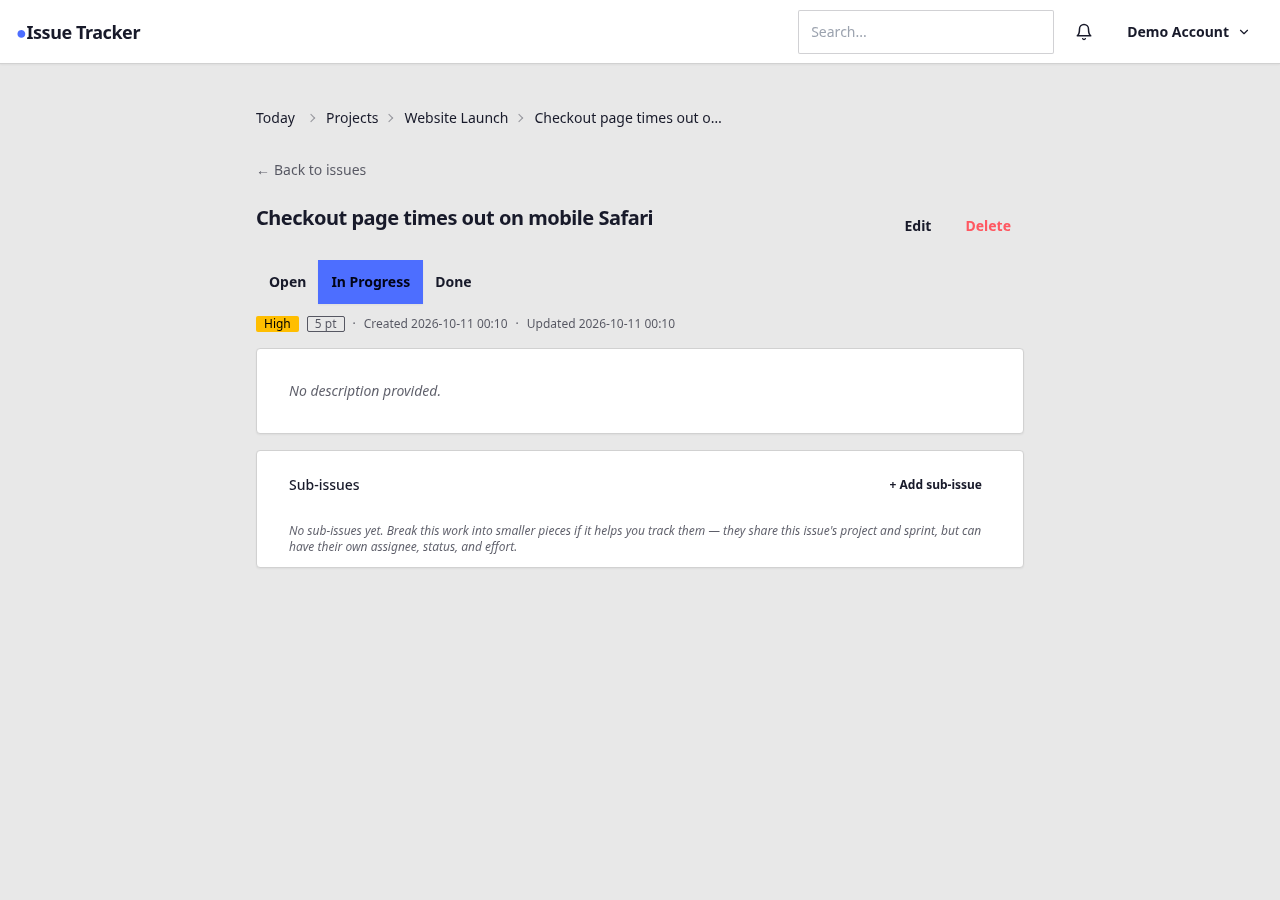
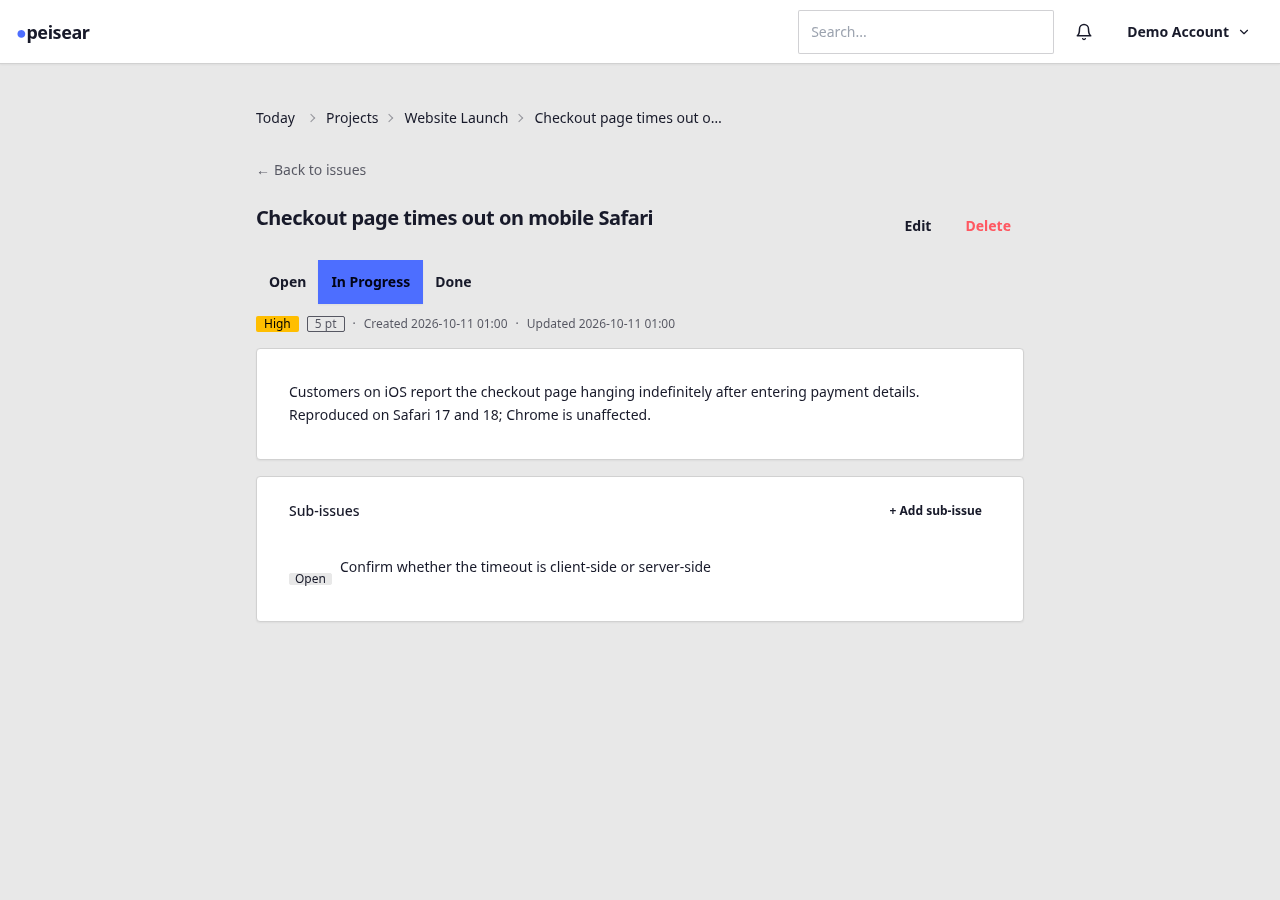
DOCS-008: images a stranger can read
RFC 0016 §0: the interface brand string is peisear, not "Issue
Tracker" -- the navbar and all seven page-title suffixes in
crates/peisear-i18n/src/en.rs. Searched tracked files for the old
string outside that file and in crates/*/tests: none found; the i18n
guard already used a [fx-brand] placeholder, unaffected.

RFC 0016 §0.1/§9: the four one-line descriptions published by the
0.49.0 release itself (peisear's and peisear-web's Cargo.toml
descriptions, peisear's lib.rs doc comment, docs/book.toml) no longer
call the product an issue tracker, wording taken from the RFC's own
hero draft and marked provisional -- the README repositioning stays
0.50.0's.

Three more fixture strings found by reading the regenerated images,
not by trusting the three the review named: the project description
and two issue titles, hardcoded outside createFixtures' parameter
list. Parameterised alongside the existing eight, with an adversarial
value in the gate's own set and a plain one in doc-screenshots.mjs's;
the gate re-verified at 120 cells throughout.

The issue in the issue-detail capture now has a description and one
sub-issue, so the image no longer contradicts first-run.md's own
"a description, and a place for sub-issues" -- both the description
and the sub-issue are parameterised the same way, empty/adversarial
for the gate, filled in for the screenshot.

Two DOCS-007 review findings fixed: the exclusion-proof test
(the_scan_does_not_count_its_own_file) now asserts the module's own
[…]

Changed region(s): [[0.2188, 0.4044, 0.7812, 0.6533], [0.0312, 0.0311, 0.125, 0.0622]]

diff --git a/crates/peisear-web/src/docs_scan.rs b/crates/peisear-web/src/docs_scan.rs
@@ -214,6 +214,31 @@ fn literal_bool_default(config_rs: &str, var: &str) -> Option<bool> {
     }
 }
 
+// ---------- rule 6: README.md's absolute image URLs ----------
+
+const RAW_URL_PREFIX: &str = "https://github.com/nabbisen/peisear/raw/main/";
+
+/// Every path named by a `.../raw/main/<path>` URL in `text`, in the
+/// order they appear. Mechanical text splitting, same shape as rule 3's
+/// manifest parse -- no network call, ever (`DOCS-008` §7's own
+/// condition: "if rule 6 cannot be written without a network call, then
+/// it is not rule 6 and should not be built"; it doesn't need one, since
+/// the question is only "does this path exist in the tree", not "does
+/// the URL resolve").
+fn raw_url_paths(text: &str) -> Vec<String> {
+    let mut out = Vec::new();
+    let mut rest = text;
+    while let Some(idx) = rest.find(RAW_URL_PREFIX) {
+        let after = &rest[idx + RAW_URL_PREFIX.len()..];
+        let end = after
+            .find(|c: char| c == ')' || c == '"' || c == '\'' || c.is_whitespace())
+            .unwrap_or(after.len());
+        out.push(after[..end].to_string());
+        rest = &after[end..];
+    }
+    out
+}
+
 /// The *Default* cell of `configuration.md`'s reference table row for `var`.
 fn table_default(configuration: &str, var: &str) -> Option<String> {
     let marker = format!("`{var}`");
@@ -238,6 +263,8 @@ pub(crate) struct Input<'a> {
     pub deployment: &'a str,
     pub configuration: &'a str,
     pub config_rs: &'a str,
+    /// Does this repo-root-relative path exist? (rule 6 only.)
+    pub exists: &'a dyn Fn(&str) -> bool,
 }
 
 /// Every rule breach, each a sentence saying which rule and where. Messages
@@ -334,6 +361,15 @@ pub(crate) fn violations(input: &Input) -> Vec<String> {
         }
     }
 
+    // Rule 6, live: every README.md raw-URL image names a file that exists.
+    for path in raw_url_paths(input.readme) {
+        if !(input.exists)(&path) {
+            out.push(format!(
+                "rule 6: README.md's raw URL names {path}, which does not exist"
+            ));
+        }
+    }
+
     out
 }
 
@@ -373,6 +409,8 @@ fn real() -> Real {
 }
 
 fn run(r: &Real) -> Vec<String> {
+    let root = repo_root();
+    let exists = move |p: &str| root.join(p).exists();
     violations(&Input {
         crate_dirs: r.crate_dirs.clone(),
         readme: &r.readme,
@@ -384,6 +422,7 @@ fn run(r: &Real) -> Vec<String> {
         deployment: &r.deployment,
         configuration: &r.configuration,
         config_rs: &r.config_rs,
+        exists: &exists,
     })
 }
 
@@ -490,6 +529,20 @@ fn rule_4_catches_a_documented_boolean_default_that_does_not_match_config_rs() {
 }
 
 #[test]
+fn rule_6_catches_a_raw_url_naming_a_file_that_does_not_exist() {
+    let mut r = real();
+    r.readme = format!(
+        "{}\n![missing](https://github.com/nabbisen/peisear/raw/main/docs/src/assets/screenshots/does-not-exist.png)\n",
+        r.readme
+    );
+    let v = only(run(&r), "rule 6:");
+    assert!(
+        v.iter().any(|m| m.contains("does-not-exist.png")),
+        "got {v:?}"
+    );
+}
+
+#[test]
 fn the_helpers_do_what_the_rules_assume() {
     assert_eq!(short_crate_name("peisear-i18n"), "i18n");
     assert_eq!(short_crate_name("peisear"), "peisear");
@@ -528,6 +581,12 @@ fn the_helpers_do_what_the_rules_assume() {
         ),
         vec!["app.css".to_string(), "board.js".to_string()]
     );
+    assert_eq!(
+        raw_url_paths(
+            "![a](https://github.com/nabbisen/peisear/raw/main/docs/a.png) and [b](https://github.com/nabbisen/peisear/raw/main/docs/b.png \"title\")"
+        ),
+        vec!["docs/a.png".to_string(), "docs/b.png".to_string()]
+    );
 }
 
 // ---------- rule 5: committed citations of a gitignored path ----------
@@ -551,7 +610,13 @@ fn the_helpers_do_what_the_rules_assume() {
 /// banning its own existence.
 const SELF_PATH: &str = "crates/peisear-web/src/docs_scan.rs";
 
-fn tracked_files() -> Vec<(String, String)> {
+/// Every path `git` considers tracked, unfiltered -- the raw list
+/// [`tracked_files`] filters `SELF_PATH` out of. Kept separate so a test
+/// can assert against the *un*filtered list too (`DOCS-008` §3): a test
+/// that only checks `SELF_PATH` is absent from the filtered output
+/// passes vacuously if `SELF_PATH` is stale (the file renamed or moved),
+/// since an absent path is trivially "not found" either way.
+fn git_tracked_paths() -> Vec<String> {
     let root = repo_root();
     let output = std::process::Command::new("git")
         .arg("-C")
@@ -560,13 +625,22 @@ fn tracked_files() -> Vec<(String, String)> {
         .arg("-z")
         .output()
         .expect("git ls-files");
+    String::from_utf8_lossy(&output.stdout)
+        .split('\0')
+        .filter(|s| !s.is_empty())
+        .map(|s| s.to_string())
+        .collect()
+}
+
+fn tracked_files() -> Vec<(String, String)> {
+    let root = repo_root();
     let mut out = Vec::new();
-    for rel in String::from_utf8_lossy(&output.stdout).split('\0') {
-        if rel.is_empty() || rel == SELF_PATH {
+    for rel in git_tracked_paths() {
+        if rel == SELF_PATH {
             continue;
         }
-        if let Ok(text) = fs::read_to_string(root.join(rel)) {
-            out.push((rel.to_string(), text));
+        if let Ok(text) = fs::read_to_string(root.join(&rel)) {
+            out.push((rel, text));
         }
     }
     out
@@ -608,11 +682,26 @@ fn a_planted_git_exclude_citation_is_counted() {
 /// `DOCS-005` review, finding F-1: `tracked_files()` used to count this
 /// module's own file, which cites `.git-exclude` nine times in its doc
 /// comments and test expectations -- so the rule below could never reach
-/// zero, even after `DOCS-006` closes the real gap. Proven directly
-/// (not just asserted by the exclusion's own existence): this module's
-/// own path is absent from what `tracked_files()` returns.
+/// zero, even after `DOCS-006` closes the real gap.
+///
+/// `DOCS-008` review, finding F-3: the first version of this test only
+/// asserted `SELF_PATH` was *absent* from `tracked_files()`'s filtered
+/// output -- which also holds, vacuously, if `SELF_PATH` is stale (the
+/// file renamed or moved), since the filtered list would never contain
+/// the old path either way. The one failure mode this test exists to
+/// catch is the one that shape can't see. Fixed to a positive assertion
+/// first: `SELF_PATH` must be present in git's own *unfiltered* tracked
+/// list, which fails loudly, naming the path, the moment a rename makes
+/// `SELF_PATH` stale -- then the filtered list must exclude it.
 #[test]
 fn the_scan_does_not_count_its_own_file() {
+    let tracked = git_tracked_paths();
+    assert!(
+        tracked.iter().any(|p| p == SELF_PATH),
+        "{SELF_PATH} is not a tracked file -- if docs_scan.rs was renamed \
+         or moved, update SELF_PATH to match, or this test cannot prove \
+         the exclusion it exists to prove"
+    );
     let files = tracked_files();
     assert!(
         !files.iter().any(|(path, _)| path == SELF_PATH),

diff --git a/crates/peisear-i18n/src/en.rs b/crates/peisear-i18n/src/en.rs
@@ -202,7 +202,7 @@ pub(crate) fn render(key: MessageKey) -> String {
         ),
 
         // ---- I18N-005a: components/{layout,breadcrumb,error_page} ----
-        MessageKey::AppBrandName => "Issue Tracker".to_string(),
+        MessageKey::AppBrandName => "peisear".to_string(),
         MessageKey::NavBellLabelNone => "Notifications".to_string(),
         MessageKey::NavBellLabelUnread { count } => format!("Notifications ({count} unread)"),
         MessageKey::NavBellCount { count } => bell_count(count),
@@ -218,7 +218,7 @@ pub(crate) fn render(key: MessageKey) -> String {
         MessageKey::NavSignOut => "Sign out".to_string(),
         MessageKey::BreadcrumbNavLabel => "Breadcrumb".to_string(),
         MessageKey::BackToSection { section } => format!("Back to {}", nav_section(section)),
-        MessageKey::ErrorPageTitle => "Error — Issue Tracker".to_string(),
+        MessageKey::ErrorPageTitle => "Error — peisear".to_string(),
         MessageKey::ErrorPageGoHomeLink => "Go home".to_string(),
 
         // ---- I18N-005b: components/{issues,projects} ----
@@ -270,7 +270,7 @@ pub(crate) fn render(key: MessageKey) -> String {
         MessageKey::EmptyIssueListMessage => "No issues yet.".to_string(),
         MessageKey::EffortEstimateTooltip => "Effort estimate".to_string(),
         MessageKey::ProjectDetailPageTitle { project_name } => {
-            format!("{project_name} — Issue Tracker")
+            format!("{project_name} — peisear")
         }
         MessageKey::IssueNewPageTitle { project_name } => format!("New issue — {project_name}"),
         MessageKey::NewIssueLabel => "New issue".to_string(),
@@ -324,13 +324,13 @@ pub(crate) fn render(key: MessageKey) -> String {
         MessageKey::NoDescriptionProvided => "No description provided.".to_string(),
         MessageKey::CreatedAt { formatted } => format!("Created {formatted}"),
         MessageKey::UpdatedAt { formatted } => format!("Updated {formatted}"),
-        MessageKey::ProjectsListPageTitle => "Projects — Issue Tracker".to_string(),
+        MessageKey::ProjectsListPageTitle => "Projects — peisear".to_string(),
         MessageKey::ProjectsSubheading => "Your issue-tracking workspaces".to_string(),
         MessageKey::NewProjectLabel => "New project".to_string(),
         MessageKey::ProjectsEmptyMessage => "No projects yet.".to_string(),
         MessageKey::CreateFirstProjectButton => "Create your first project".to_string(),
         MessageKey::NoDescriptionShort => "No description".to_string(),
-        MessageKey::ProjectNewPageTitle => "New project — Issue Tracker".to_string(),
+        MessageKey::ProjectNewPageTitle => "New project — peisear".to_string(),
         MessageKey::NewBreadcrumbWord => "New".to_string(),
         MessageKey::ProjectNamePlaceholder => "e.g. Customer Portal".to_string(),
         MessageKey::ProjectDescriptionPlaceholder => "What is this project about?".to_string(),
@@ -342,7 +342,7 @@ pub(crate) fn render(key: MessageKey) -> String {
             .to_string(),
         MessageKey::CreateProjectButton => "Create project".to_string(),
         MessageKey::ProjectEditPageTitle { project_name } => {
-            format!("Edit {project_name} — Issue Tracker")
+            format!("Edit {project_name} — peisear")
         }
         MessageKey::EditProjectHeading => "Edit project".to_string(),
         MessageKey::DeleteProjectHeading => "Delete project".to_string(),
@@ -1037,8 +1037,8 @@ pub(crate) fn render(key: MessageKey) -> String {
         ),
 
         // ---- I18N-005e: components/auth.rs, handlers/auth.rs ----
-        MessageKey::LoginPageTitle => "Sign in — Issue Tracker".to_string(),
-        MessageKey::RegisterPageTitle => "Create account — Issue Tracker".to_string(),
+        MessageKey::LoginPageTitle => "Sign in — peisear".to_string(),
+        MessageKey::RegisterPageTitle => "Create account — peisear".to_string(),
         MessageKey::SignInTaglineText => "Sign in to your workspace".to_string(),
         MessageKey::RegisterTaglineText => "Create your account".to_string(),
         MessageKey::SignInWord => "Sign in".to_string(),

diff --git a/crates/peisear/src/lib.rs b/crates/peisear/src/lib.rs
@@ -1,4 +1,6 @@
-//! peisear — a minimal, sophisticated, solid, and easy issue tracker.
+//! peisear — a minimal, sophisticated, solid, and easy project and issue
+//! tracker that also shows how the project — and the people in it — are
+//! holding up.
 //!
 //! This is the public crates.io face of the project. The actual
 //! implementation is split across five sibling crates; this crate
